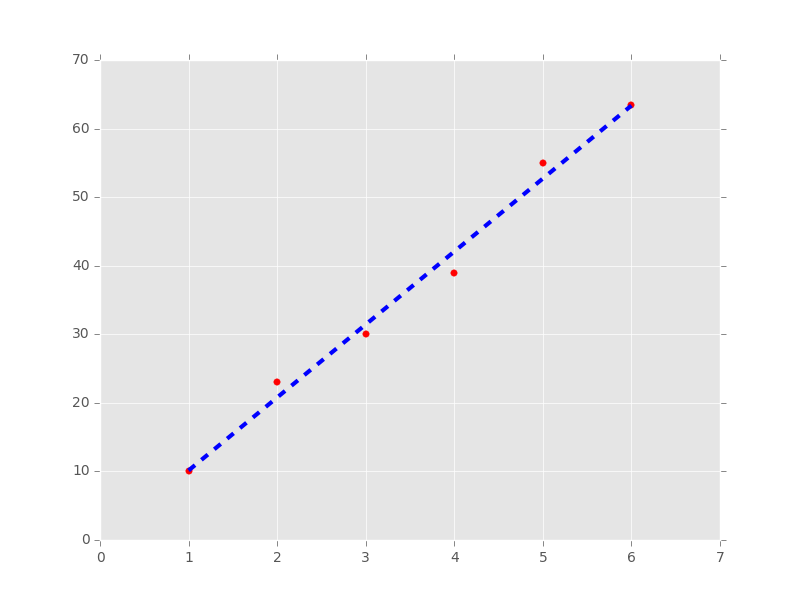
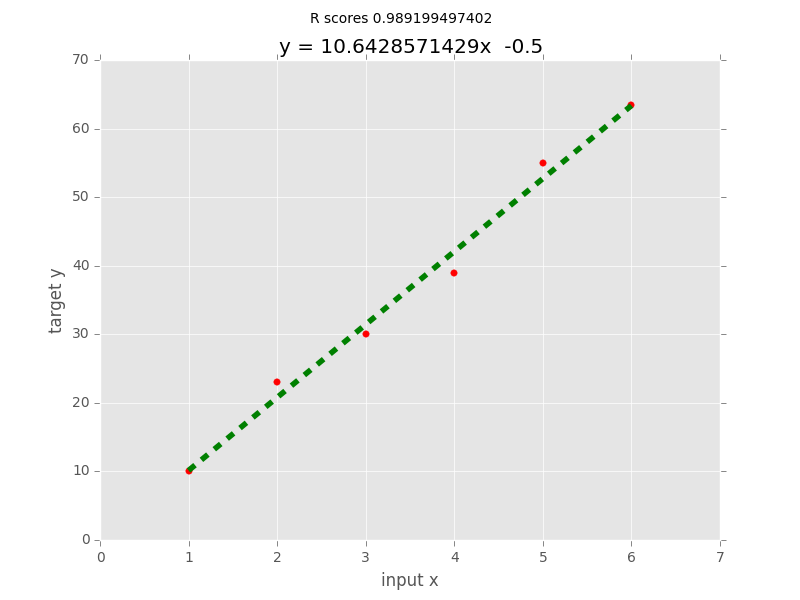
fixed old and output figure.

diff --git a/linear_model/Linear_Model_simplest_example.py b/linear_model/Linear_Model_simplest_example.py
@@ -27,8 +27,18 @@ print(regr.coef_, )
 print(regr.intercept_)
 
 # plot
-
+fig, ax0 = plt.subplots(nrows=1)
 plt.scatter(X, y, color='red')
-plt.plot(X, regr.coef_[0] * X + regr.intercept_, linear
-    linear'b--', linewidth=3)
+plt.rc('lines', linewidth=4)
+plt.plot(X, regr.coef_[0] * X + regr.intercept_, 'k--', color='green')
+
+score = regr.score(X, y)
+rscore = 'R scores {0:<8}'.format(score)
+fig.suptitle(rscore)
+
+regr_equation = 'y = {w1}x  {intercept}'.format(w1=regr.coef_[0], intercept=regr.intercept_)
+plt.xlabel('input x')
+plt.ylabel('target y')
+plt.title(regr_equation)
+
 plt.show()
